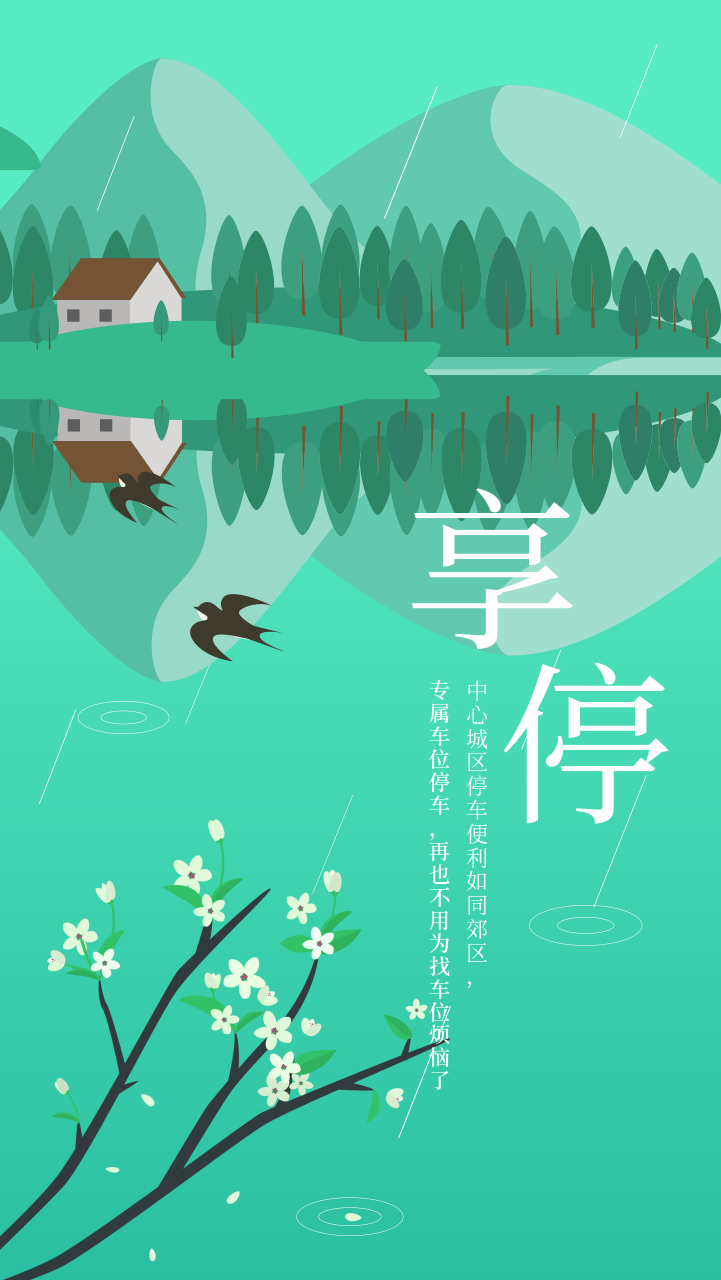
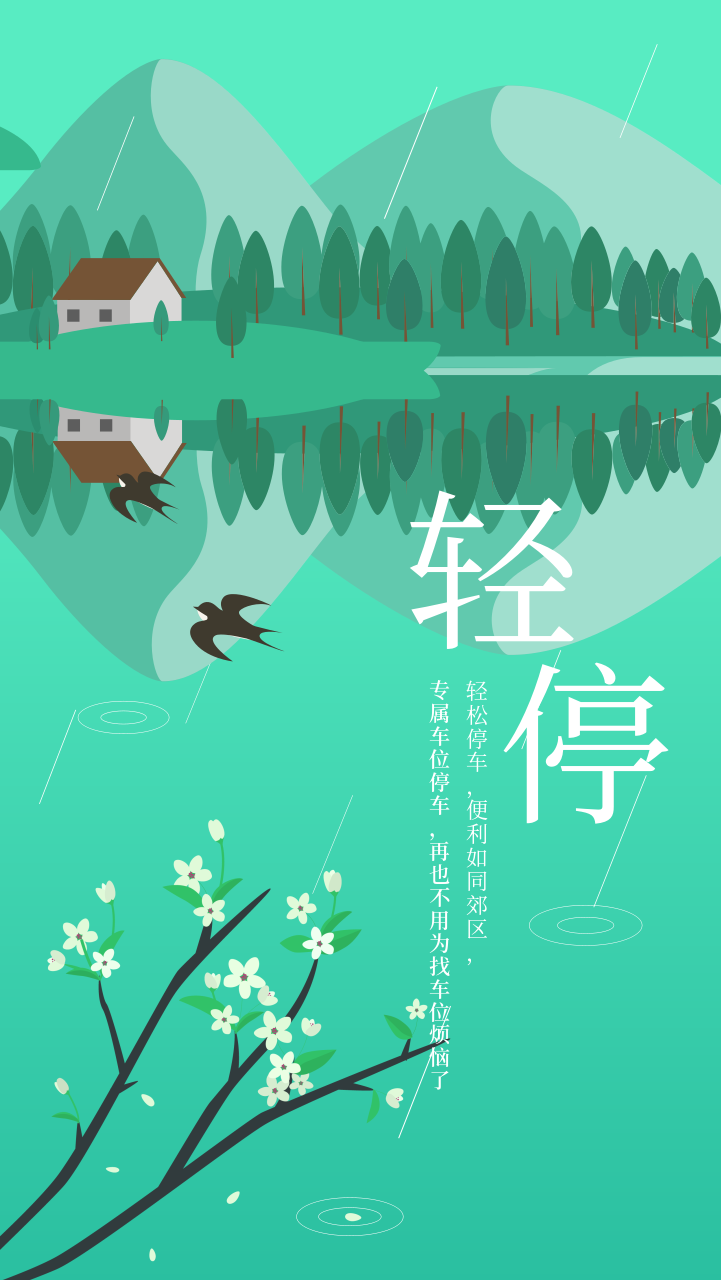
#deploy# update app name to 轻停

Changed region(s): [[0.5798, 0.375, 0.7933, 0.5312], [0.6408, 0.5312, 0.6713, 0.75]]

diff --git a/src/index.html b/src/index.html
@@ -2,7 +2,7 @@
 <html lang="en" dir="ltr">
 <head>
   <meta charset="UTF-8">
-  <title>享停</title>
+  <title>轻停</title>
   <meta name="viewport" content="viewport-fit=cover, width=device-width, initial-scale=1.0, minimum-scale=1.0, maximum-scale=1.0, user-scalable=no">
   <meta name="format-detection" content="telephone=no">
   <meta name="msapplication-tap-highlight" content="no">

diff --git a/src/pages/login/login.html b/src/pages/login/login.html
@@ -21,7 +21,7 @@
         <div padding-horizontal text-center class="animated fadeInDown">
             <div class="logo"></div>
             <h2 ion-text class="text-secondary">
-                <strong>享停</strong>  
+                <strong>轻停</strong>  
             </h2>
         </div>
  

diff --git a/src/pages/register/register.html b/src/pages/register/register.html
@@ -21,7 +21,7 @@
         <div padding text-center>
             <div class="logo"></div>
             <h2 ion-text class="text-secondary">
-                <strong>享停</strong> 
+                <strong>轻停</strong> 
             </h2>
         </div>
 

diff --git a/src/pages/welcome/welcome.scss b/src/pages/welcome/welcome.scss
@@ -10,7 +10,7 @@ page-welcome {
 
     .start-button{ 
         position: absolute; 
-        bottom:230px;
+        bottom:32vh;
         left:30vw;
     }
 
